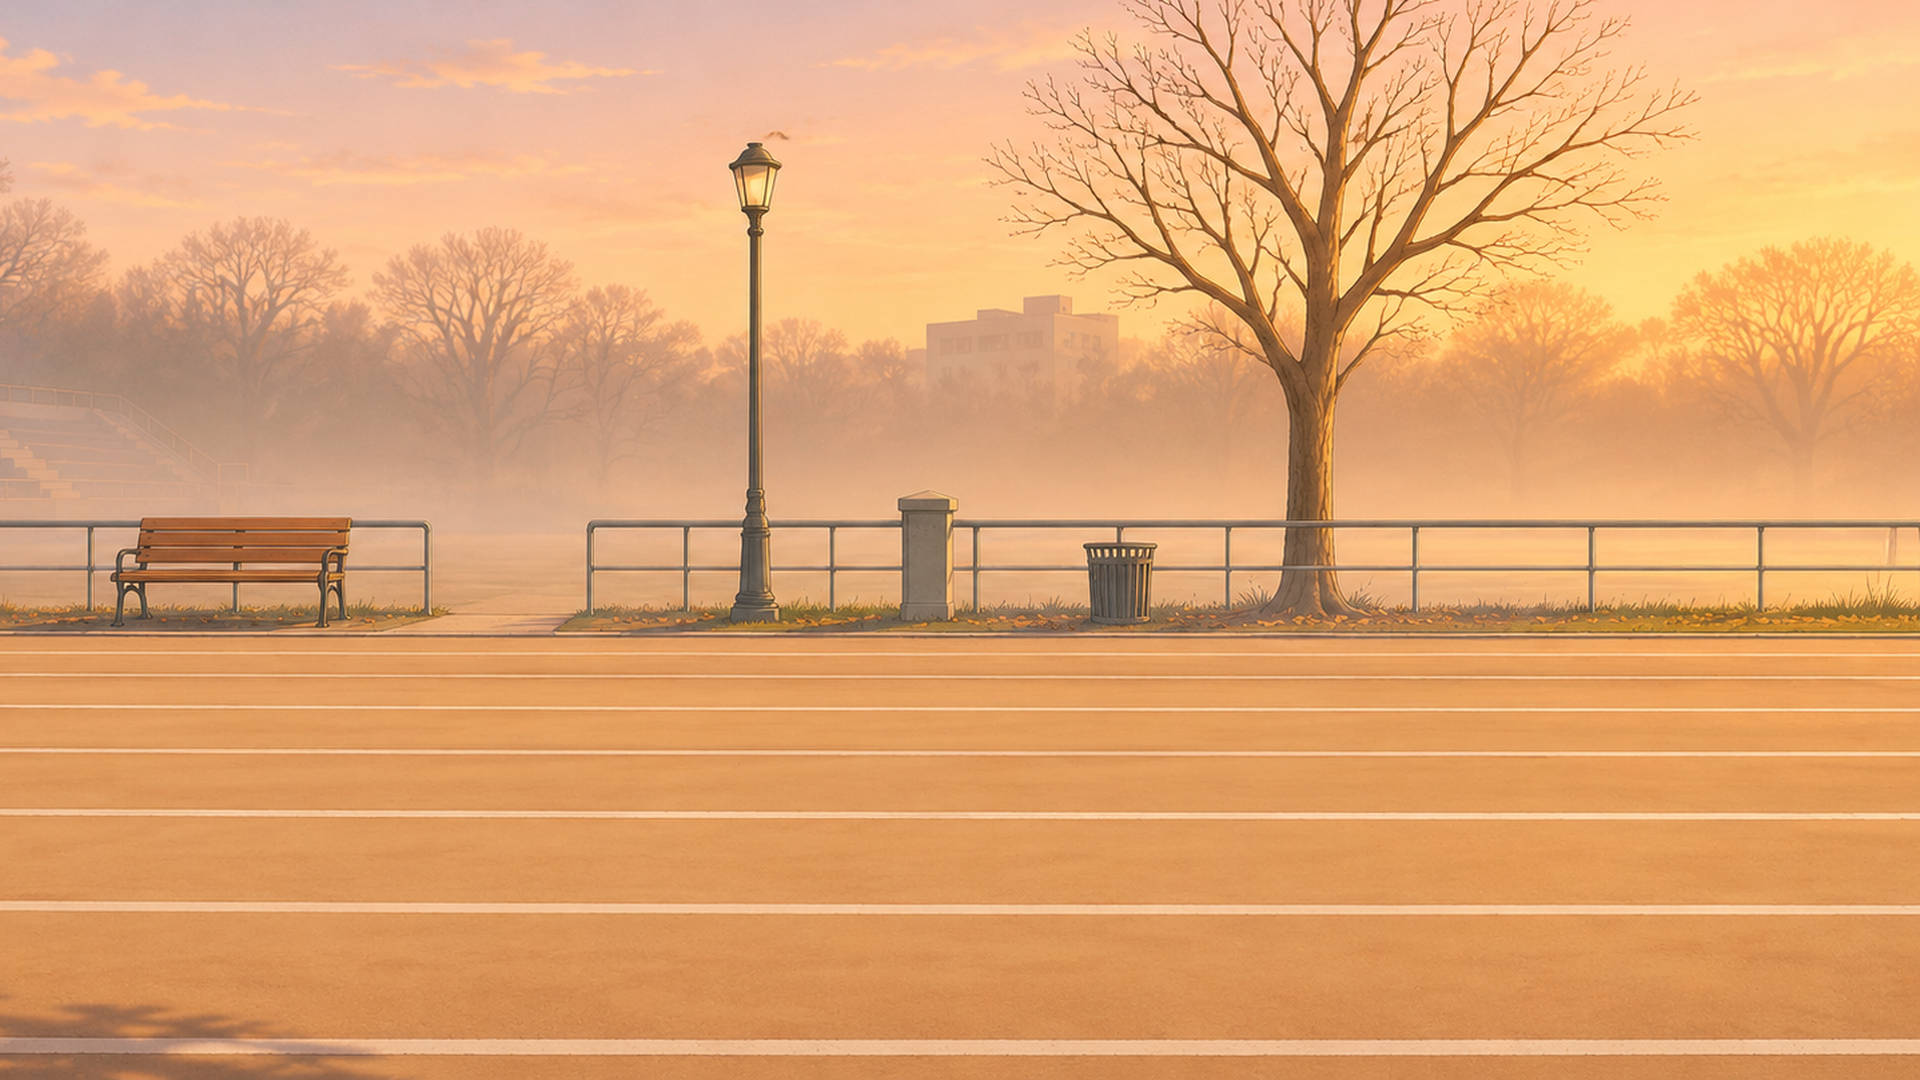
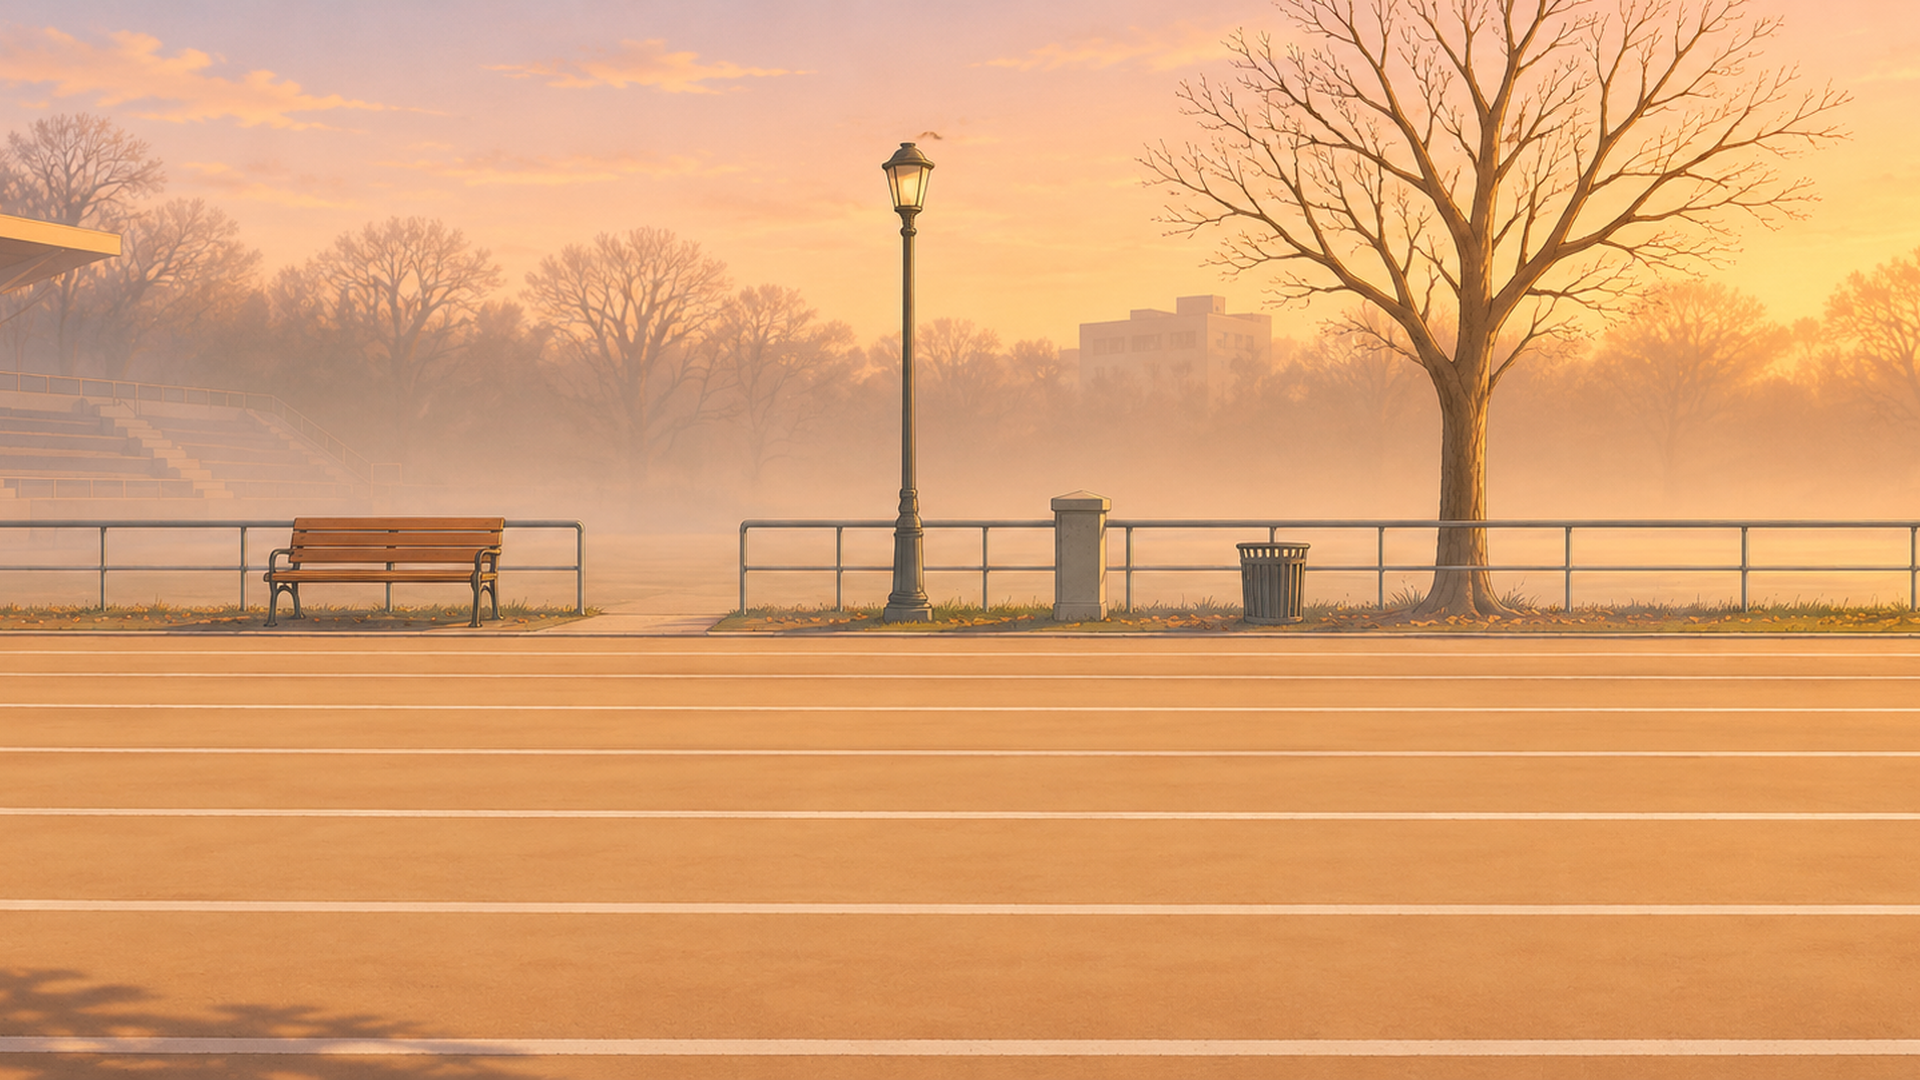
S3 window B shift 520

diff --git a/pain_before_success/04_frames/frame_specs.md b/pain_before_success/04_frames/frame_specs.md
@@ -37,7 +37,7 @@ S2 的推近、S4 的拉遠只有 5%，用 Python 裁切放大做，不叫 ChatG
 - 場景：冬天清晨霧中田徑場，霧 #E6C49B、沙褐跑道 #D2B48C，金色朝陽光從畫面右後方斜來（太陽在畫面外，只留光），霧濃度與光線**首尾完全相同**。
 - 機位：側面**中全景**跟拍（分鏡表已同步），與人同速向右橫移。**小晴身高占畫面高度約 55% 以上**。
 - 小晴：冬裝（深藍長袖防風外套、黑長褲、紅鞋＋白底），由左往右**慢速小步幅**慢跑，**頭固定在約 38%**，腳下要有接地影子，影子方向與太陽（右後方）一致；風向：馬尾與白氣往畫面**左後方**飄。
-- **製作方式（改）**：先請 ChatGPT 畫一張**寬幅背景（沒有人）**，內含**不規則的標記物**：一根只出現一次的燈柱、一棵樹、一張長椅、遠處霧中的看台，以及普通欄杆；背景寬度約 2600px（高 1080）。標記物位置寫死（背景 x 座標）：**長椅約 x=900、燈柱約 x=1400、樹約 x=1900**，三者都要落在兩個視窗的重疊區；欄杆要有不規則元素（一個缺口、一根特別粗的柱、一個垃圾桶），不要等距。單層背景，不做視差。用 Python 切兩個 1920x1080 視窗：**首幀視窗 x=0–1920，尾幀視窗 x=680–2600**（取用區間內實際位移約 23% 畫寬，約 440px）。人物另畫，用 Python 合成進兩個視窗，位置、大小、光線相同。
+- **製作方式（改）**：先請 ChatGPT 畫一張**寬幅背景（沒有人）**，內含**不規則的標記物**：一根只出現一次的燈柱、一棵樹、一張長椅、遠處霧中的看台，以及普通欄杆；背景寬度約 2600px（高 1080）。標記物位置寫死（背景 x 座標）：**長椅約 x=900、燈柱約 x=1400、樹約 x=1900**，三者都要落在兩個視窗的重疊區；欄杆要有不規則元素（一個缺口、一根特別粗的柱、一個垃圾桶），不要等距。單層背景，不做視差。用 Python 切兩個 1920x1080 視窗：**首幀視窗 x=0–1920，尾幀視窗 x=520–2440**（位移 520px≈27% 畫寬；原本 680 會讓燈柱落在小晴頭正後方，已縮小）。人物另畫，用 Python 合成進兩個視窗，位置、大小、光線相同。
 - **首幀**：視窗在背景左段；小晴腿為跨步相位 A（**左腳在前、右手在前**）；呼出白氣。
 - **尾幀**：視窗在背景右段（燈柱、長椅明顯移到畫面左側）；小晴相位 B（**右腳在前、左手在前**）；呼出白氣。
 - 注意：首幀必須有人；人物不背對鏡頭；兩隻紅鞋；無文字。
